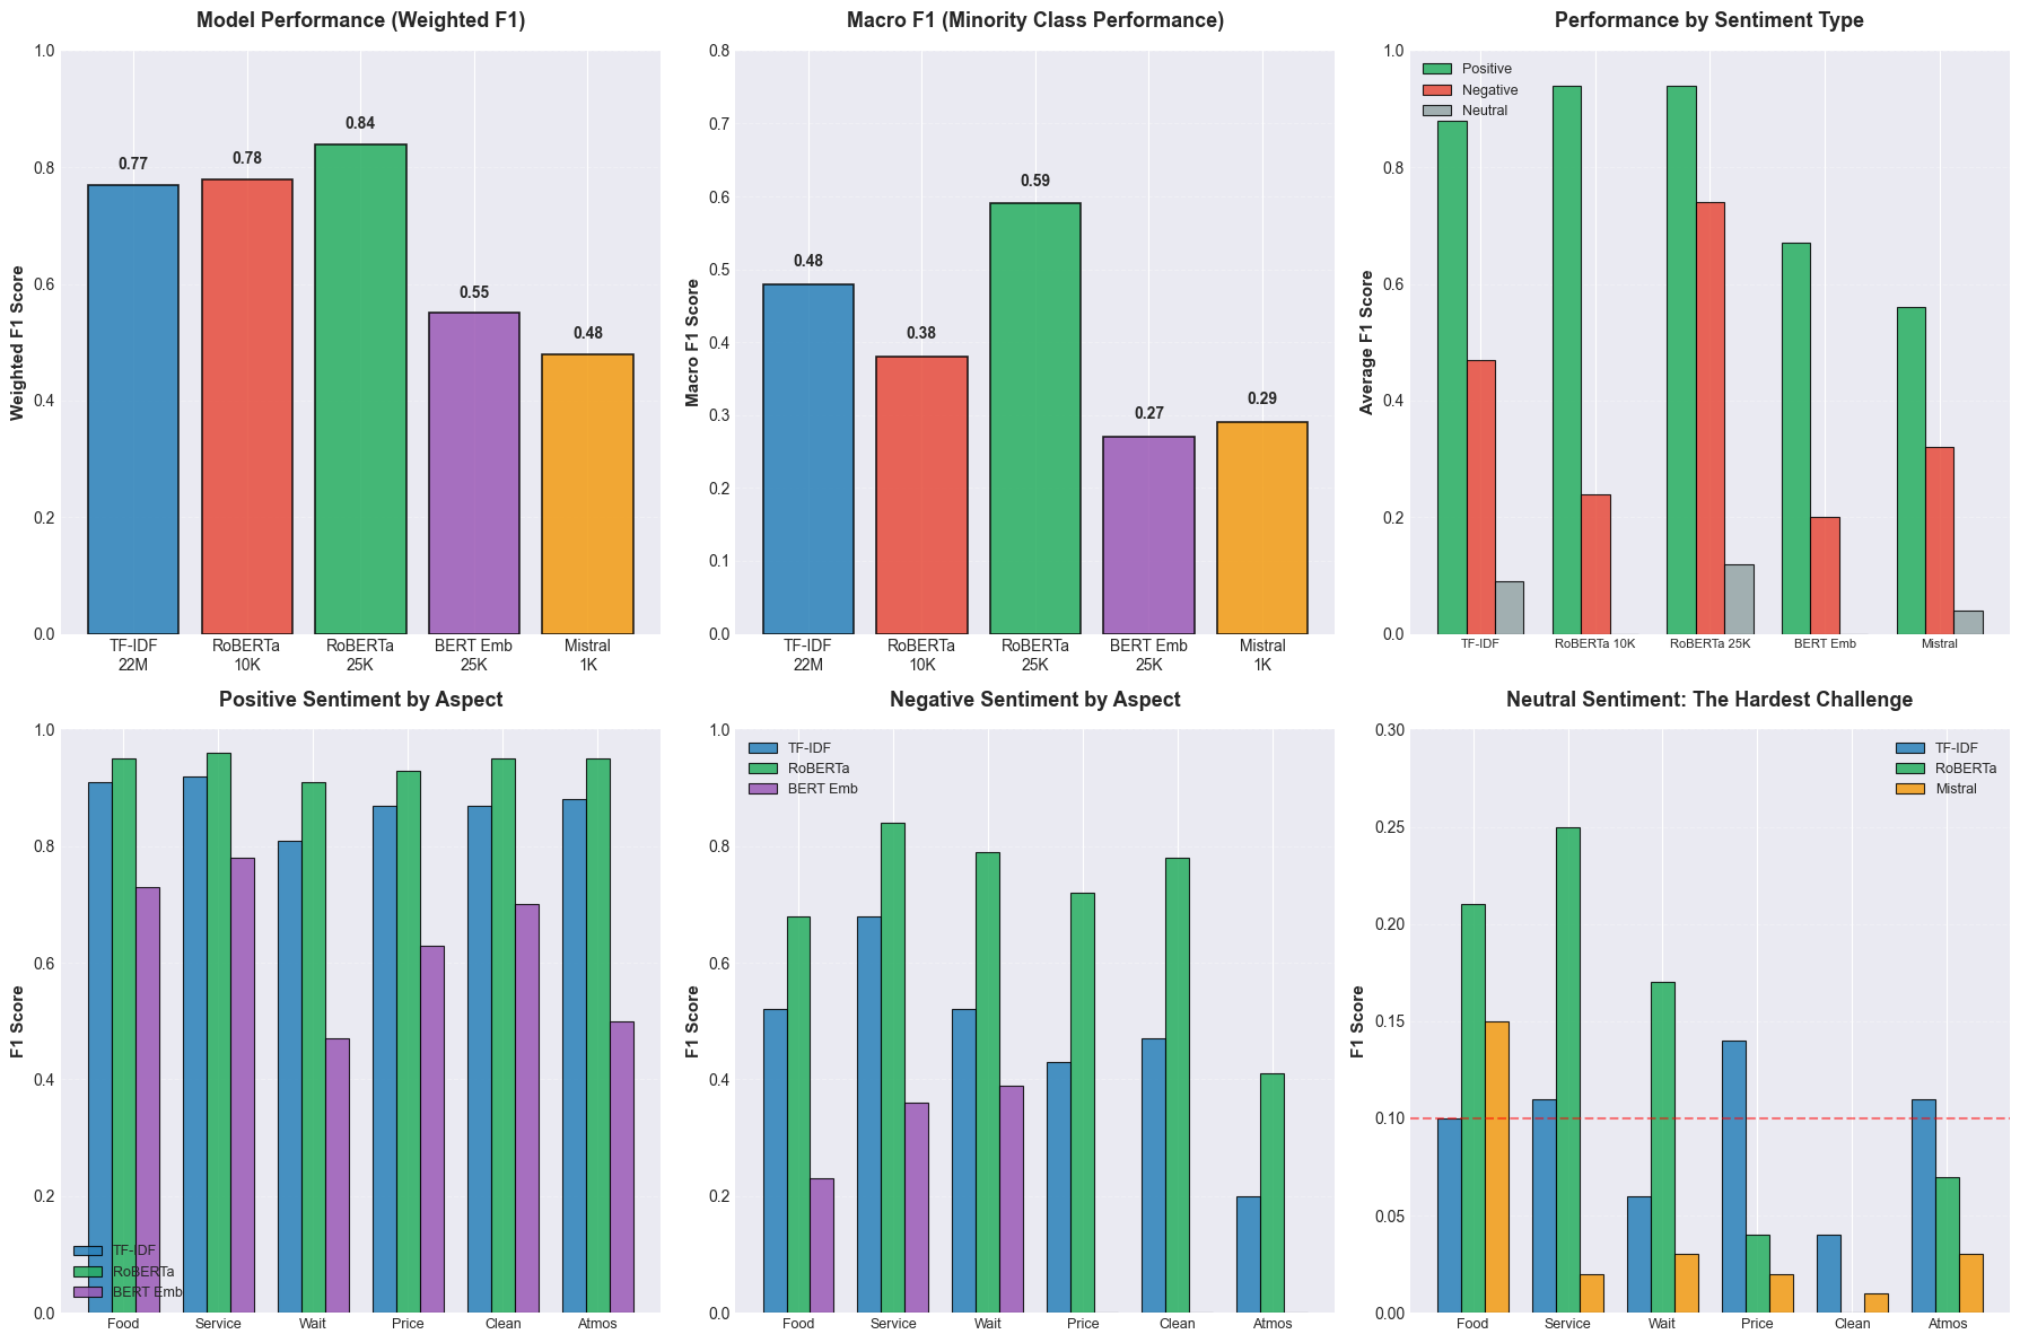
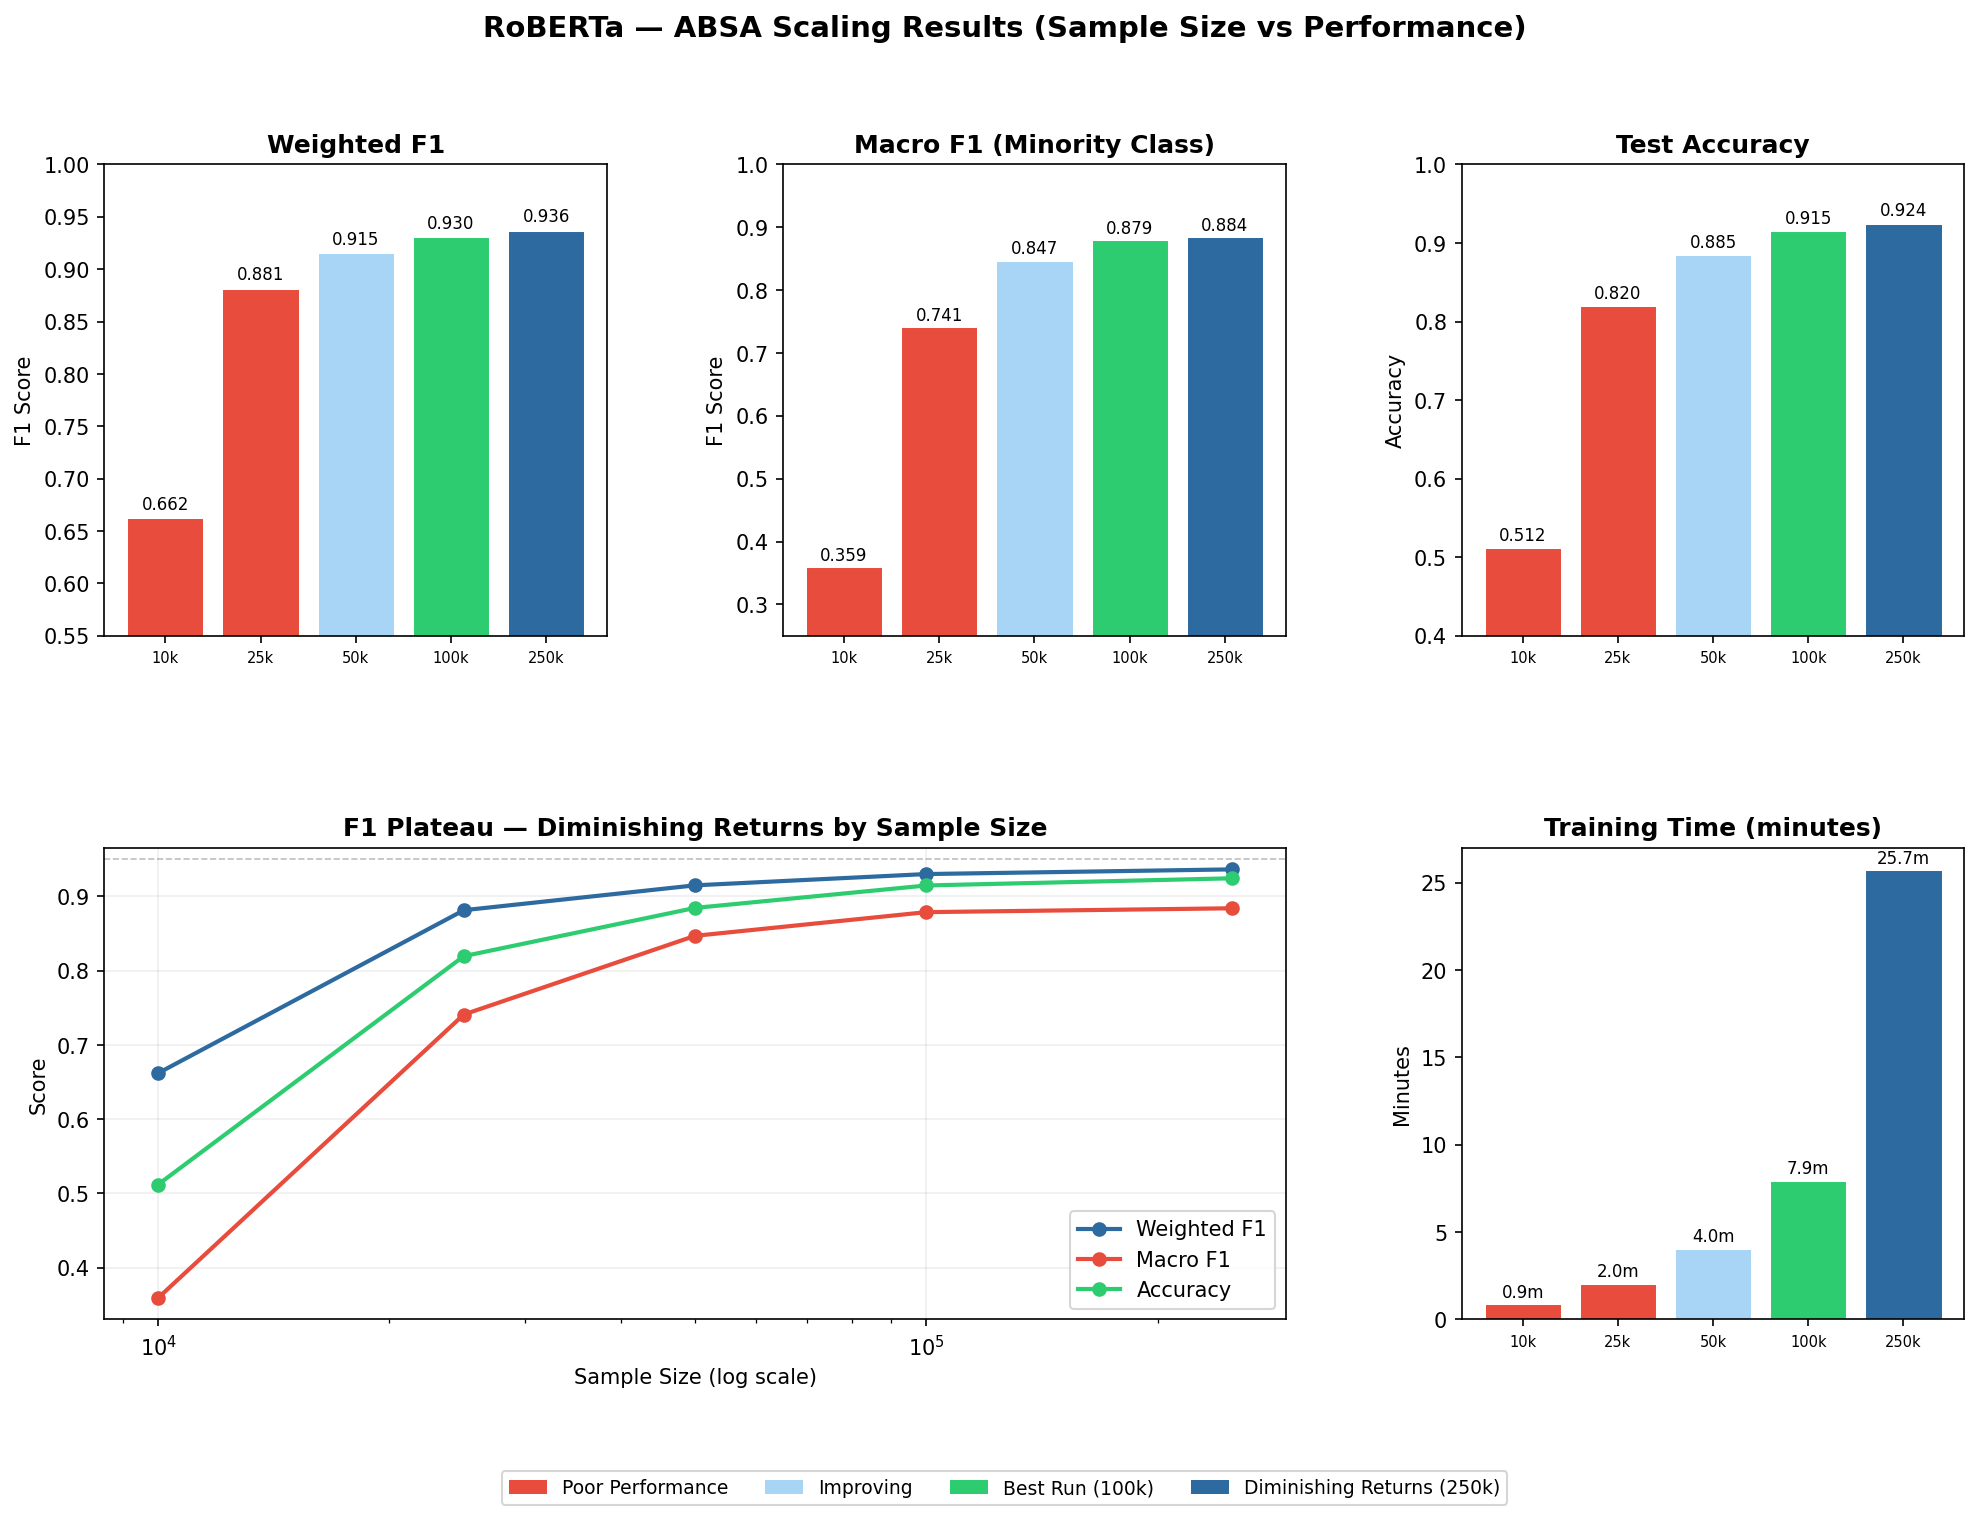
Update recent project

diff --git a/global.js b/global.js
@@ -141,11 +141,21 @@ export function renderProjects(projects, containerElement, headingLevel = 'h2') 
       <div class="project-info">
         <p>${project.description}</p>
 
-        ${project.live || project.code ? `
+        ${project.live || project.code || project.paper ? `
           <div class="project-links">
-            ${project.live ? `<a href="${project.live}" target="_blank" rel="noopener noreferrer">View Project</a>` : ''}
-            ${project.live && project.code ? ' · ' : ''}
-            ${project.code ? `<a href="${project.code}" target="_blank" rel="noopener noreferrer">View Code</a>` : ''}
+            ${
+              [
+                project.paper
+                  ? `<a href="${project.paper}" target="_blank" rel="noopener noreferrer">View Paper</a>`
+                  : '',
+                project.live
+                  ? `<a href="${project.live}" target="_blank" rel="noopener noreferrer">View Project</a>`
+                  : '',
+                project.code
+                  ? `<a href="${project.code}" target="_blank" rel="noopener noreferrer">View Code</a>`
+                  : '',
+              ].filter(Boolean).join(' · ')
+            }
           </div>
         ` : ''}
 

diff --git a/index.html b/index.html
@@ -13,8 +13,8 @@
     <div class="intro-text">
         <h1>Zack</h1>
         <h3>
-        Data professional skilled in machine learning, data pipelines, and visualization. 
-        This portfolio showcases end-to-end analytical projects.
+        Recent M.S. Data Science graduate with hands-on experience in NLP, recommender systems, and large-scale data pipelines. 
+        This portfolio showcases end-to-end projects from raw data to deployed models.
         </h3>
     </div>
     <img class="profile-pic" src="images/car.jpg" alt="Here is a picture of my car">
